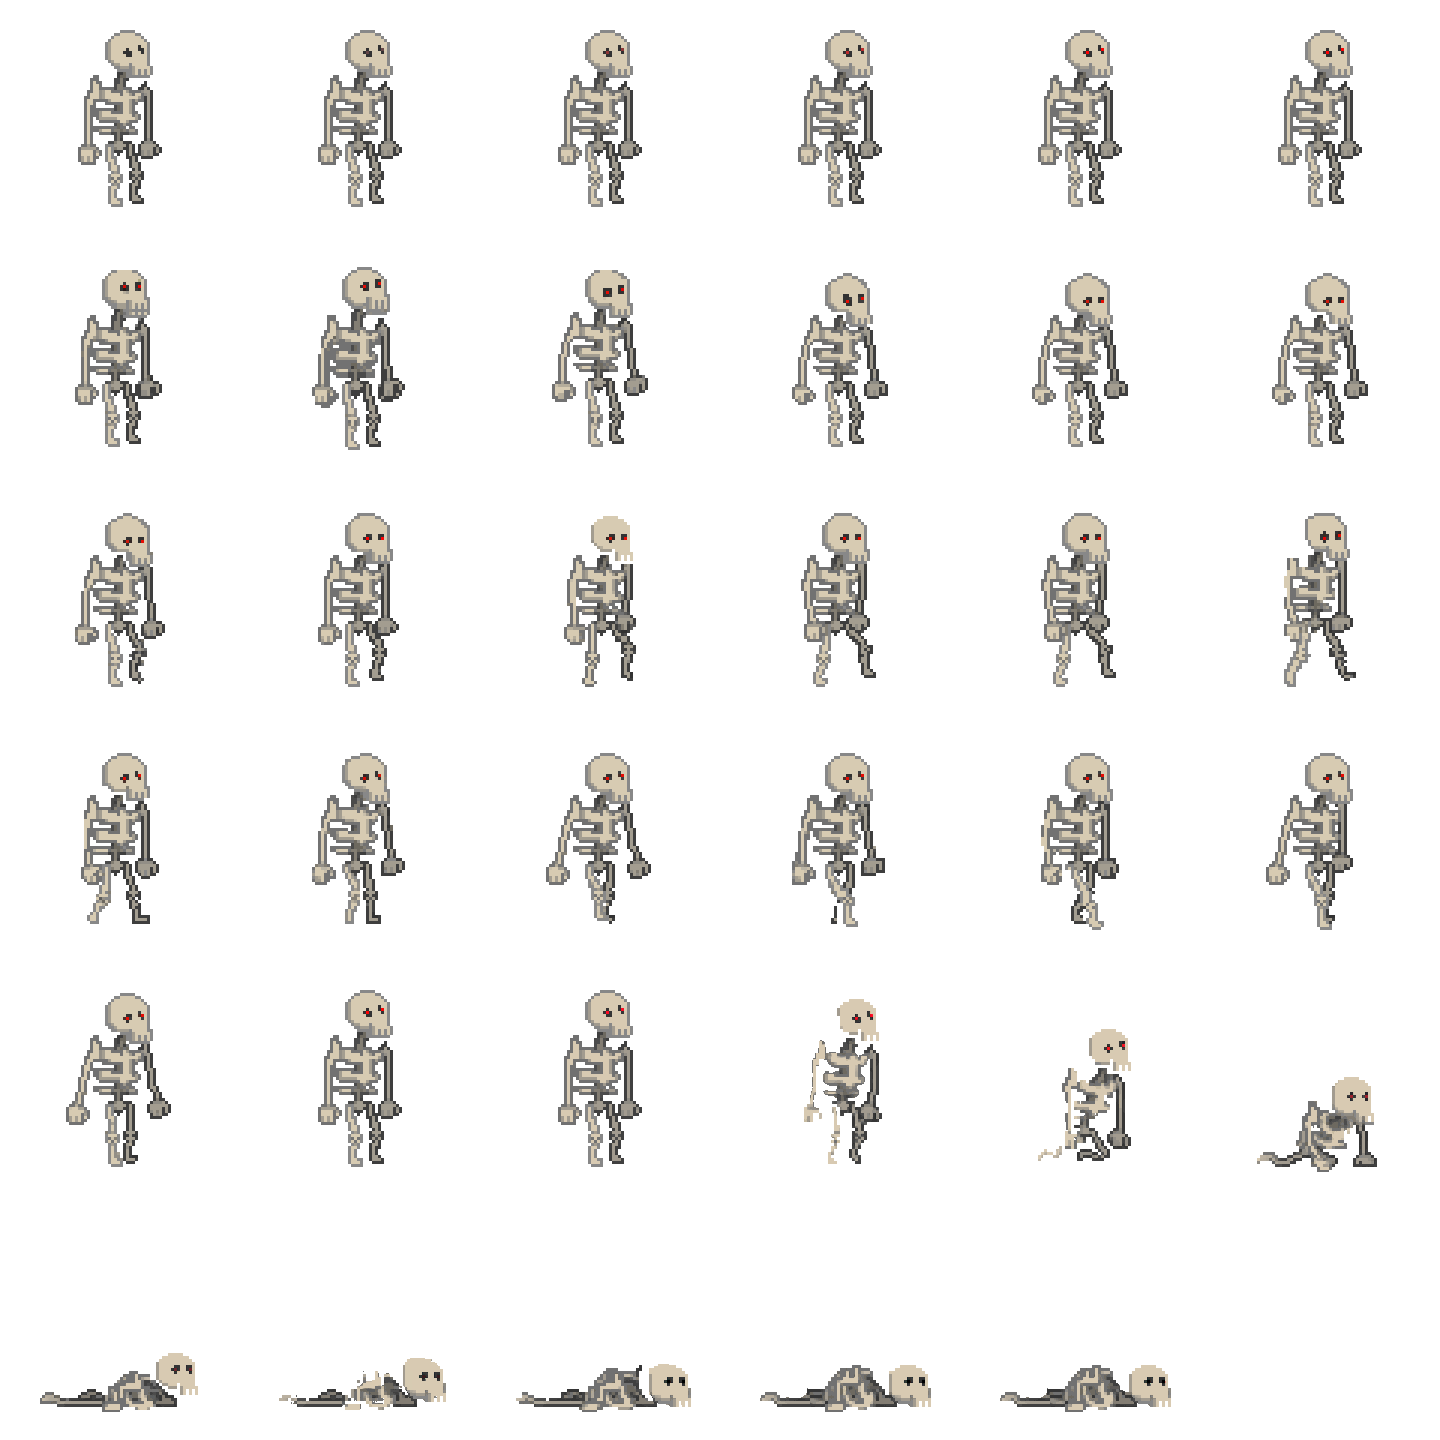
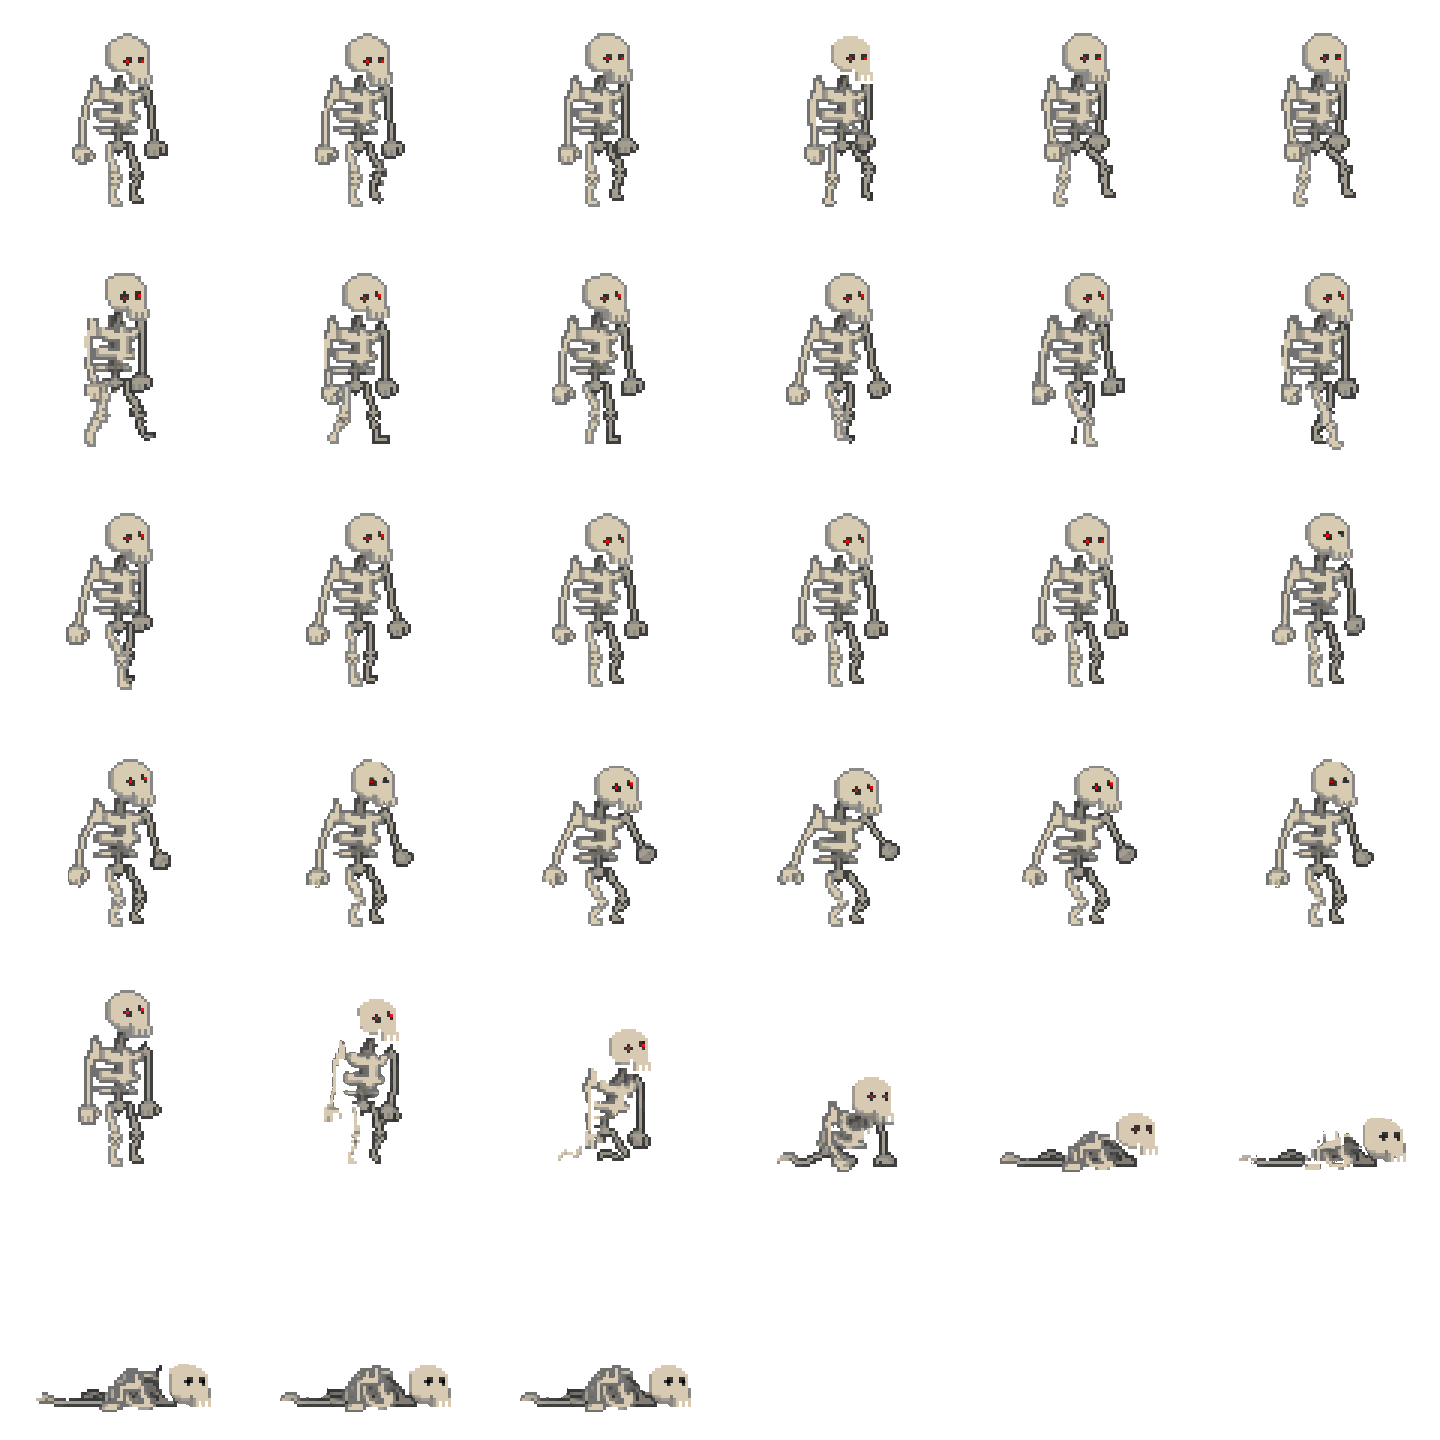
correction entiteVue

diff --git a/src/main/java/universite_paris8/iut/nchaieb/sae_jeux/vue/EntiteVue.java b/src/main/java/universite_paris8/iut/nchaieb/sae_jeux/vue/EntiteVue.java
@@ -9,6 +9,7 @@ import javafx.util.Duration;
 import universite_paris8.iut.nchaieb.sae_jeux.Main;
 import universite_paris8.iut.nchaieb.sae_jeux.modele.*;
 
+import java.sql.Time;
 import java.util.ArrayList;
 import java.util.HashMap;
 import java.util.Map;
@@ -16,26 +17,21 @@ import java.util.Map;
 
 public class EntiteVue {
     private StackPane stackPane;
-    private ArrayList<MonstreDeBase> listeMonstre= new ArrayList<>();;
-    private Environnement environnement;
     private HashMap hashMap= new HashMap<MonstreDeBase,ImageView>();
-    private HashMap<MonstreDeBase, Timeline> animeLoop = new HashMap<>();
-    private HashMap<Entite, ImageView> hashMapMorts = new HashMap<>();
-    private HashMap<Entite, Timeline> animeLoopMorts = new HashMap<>();
+    private HashMap hashMapAnimation= new HashMap<MonstreDeBase, Timeline>();
     Image  squelette = new Image(Main.class.getResourceAsStream("images/squelette.png"));
 
 
     public EntiteVue(StackPane stackPane) {
-
         this.stackPane= stackPane;
-
-//        this.environnement.le;
     }
 
     public void ajouterSprite(Entite entite){
+
         ImageView  iv= new ImageView();
-        if (entite instanceof Squelette)
-            iv= new  ImageView(squelette);
+        if (entite instanceof Squelette) {
+            iv = new ImageView(squelette);
+        }
         iv.translateXProperty().bind(entite.posXProperty());
         iv.translateYProperty().bind(
                 entite.posYProperty()
@@ -43,7 +39,7 @@ public class EntiteVue {
         this.hashMap.put(entite, iv);
 
         if(entite.getCamp()==0) iv.setScaleX(-1);
-        iv.setViewport(new Rectangle2D(5*240,0,240,240));
+        iv.setViewport(new Rectangle2D(0,0,240,240));
 
         this.stackPane.getChildren().add(iv);
     }
@@ -54,42 +50,6 @@ public class EntiteVue {
         this.stackPane.getChildren().remove(iv);
         this.hashMap.remove(entite, iv);
     }
-
-//    public void animeTest(ObservableList<MonstreDeBase> persos){
-//        for (int i = 0; i < persos.size(); i++) {
-//            MonstreDeBase monstre = persos.get(i);
-//
-//            if (!hashMap.containsKey(monstre) ) {
-//                animationMarche(monstre);
-//            }
-//            else {
-//
-//                // TODO ça va dans le listener posé sur l'observablelist
-//                ImageView iv = (ImageView) hashMap.get(monstre);
-//                iv.setTranslateX(monstre.getPosX());
-//                iv.setTranslateY(monstre.getPosY());
-//
-//
-//                if (!monstre.estVivant()) {
-//                    if(animeLoop.containsKey(monstre)){
-//                        animeLoop.get(monstre).stop();
-//                        animeLoop.remove(monstre);
-//                    }
-//                    this.stackPane.getChildren().remove(iv);
-////                    ((ImageView) hashMap.get(monstre)).setImage(null);
-//                    hashMap.remove(monstre);
-//                    animationMort(monstre);
-//                }
-//            }
-//        }
-//    }
-//
-//    public void animationAjour() {
-//        animeTest(environnement.getLesTours());
-//        animeTest(environnement.getLesMonstres());
-//
-//    }
-
 
 
 
@@ -104,7 +64,54 @@ public class EntiteVue {
         int hauteurCase = 240;
         int[] frameIndex = {13};
 
+        if(this.hashMapAnimation.containsKey(monstre)){
+            Timeline timeline= (Timeline) this.hashMapAnimation.get(monstre);
+            timeline.stop();
+            this.hashMapAnimation.remove(monstre);
+        }
 
+        Timeline squeletteMarche = new Timeline(
+
+                new KeyFrame(Duration.millis(90), e -> {
+
+                    int x, y;
+                    if (frameIndex[0] < 12) {
+                        x = frameIndex[0] % 6;
+                        y = frameIndex[0] / 6;
+                    } else {
+                        x = frameIndex[0] - 12;
+                        y = 2;
+                    }
+                    frameIndex[0]++;
+                    if (frameIndex[0] == 15) frameIndex[0] = 0;
+                    iv.setViewport(new Rectangle2D(x* largeurCase, y * hauteurCase, largeurCase, hauteurCase));
+
+                })
+        );
+        squeletteMarche.setCycleCount(15);
+        squeletteMarche.play();
+
+        this.hashMapAnimation.put(monstre, squeletteMarche);
+
+
+
+    }
+
+    public void animationAttaque(Entite monstre) {
+
+        ImageView iv = (ImageView) this.hashMap.get(monstre);
+
+
+        int largeurCase = 240;
+        int hauteurCase = 240;
+        int[] frameIndex = {13};
+
+        if(this.hashMapAnimation.containsKey(monstre)){
+            System.out.println("miaou");
+            Timeline timeline= (Timeline) this.hashMapAnimation.get(monstre);
+            timeline.stop();
+            this.hashMapAnimation.remove(monstre);
+        }
 
         Timeline squeletteMarche = new Timeline(
 
@@ -126,6 +133,8 @@ public class EntiteVue {
         );
         squeletteMarche.setCycleCount(10);
         squeletteMarche.play();
+        this.hashMapAnimation.put(monstre, squeletteMarche);
+
 
 
 
@@ -140,6 +149,12 @@ public class EntiteVue {
         int hauteurCase = 240;
         int[] frameIndex = {27};
 
+        if(this.hashMapAnimation.containsKey(monstre)){
+            Timeline timeline= (Timeline) this.hashMapAnimation.get(monstre);
+            timeline.stop();
+            this.hashMapAnimation.remove(monstre);
+        }
+
         Timeline squeletteMort = new Timeline(
                 new KeyFrame(Duration.millis(120), e -> {
                     int x = frameIndex[0] % 6;
@@ -151,7 +166,7 @@ public class EntiteVue {
         );
         squeletteMort.setCycleCount(7);
 
-        // 3. Une fois les 7 cycles finis, on enchaîne sur le Fade
+
         squeletteMort.setOnFinished(e -> {
             FadeTransition fade = new FadeTransition(Duration.seconds(2), iv);
             fade.setFromValue(1.0);
@@ -171,24 +186,6 @@ public class EntiteVue {
 
 
 
-    }
-
-    public Image verifMonstre(String typeMonstre) {
-        if (typeMonstre.equals("squelette")) {
-            return squelette;
-        }
-
-        return null;
-    }
-
-    public void unTour() {
-        for(int i=0; i<listeMonstre.size(); i++){
-            avancer(listeMonstre.get(i));
-        }
-    }
-    public void avancer(MonstreDeBase monstre){
-        monstre.setPosX(monstre.getPosX()+5);
-        System.out.println(monstre.getPosX());
     }
 
 }

diff --git a/src/main/java/universite_paris8/iut/nchaieb/sae_jeux/MonObservateurEntite.java b/src/main/java/universite_paris8/iut/nchaieb/sae_jeux/MonObservateurEntite.java
@@ -21,11 +21,11 @@ public class MonObservateurEntite implements ListChangeListener<Entite> {
         this.monstreVue = new EntiteVue(this.stackPane);
     }
 
+
+
     private void creerSprite(Entite entite) {
         this.monstreVue.ajouterSprite(entite);
     }
-
-
 
 
 
@@ -54,7 +54,7 @@ public class MonObservateurEntite implements ListChangeListener<Entite> {
 
                         }
                         if (newValue.equals("attaque")){
-
+                            this.monstreVue.animationAttaque(nouveau);
                         }
                     });
 

diff --git a/src/main/java/module-info.java b/src/main/java/module-info.java
@@ -2,6 +2,7 @@ module universite_paris8.iut.nchaieb.sae_jeux {
     requires javafx.controls;
     requires javafx.fxml;
     requires java.desktop;
+    requires java.sql;
 
 
     opens universite_paris8.iut.nchaieb.sae_jeux to javafx.fxml;

diff --git a/src/main/java/universite_paris8/iut/nchaieb/sae_jeux/modele/Squelette.java b/src/main/java/universite_paris8/iut/nchaieb/sae_jeux/modele/Squelette.java
@@ -5,7 +5,6 @@ public class Squelette extends MonstreDeBase{
         super(1, 1, 0, 0, 1);
         this.nombreDePV=pvMax;
         this.actionActuelle.set("fixe");
-
         this.portee= 100;
     }
 